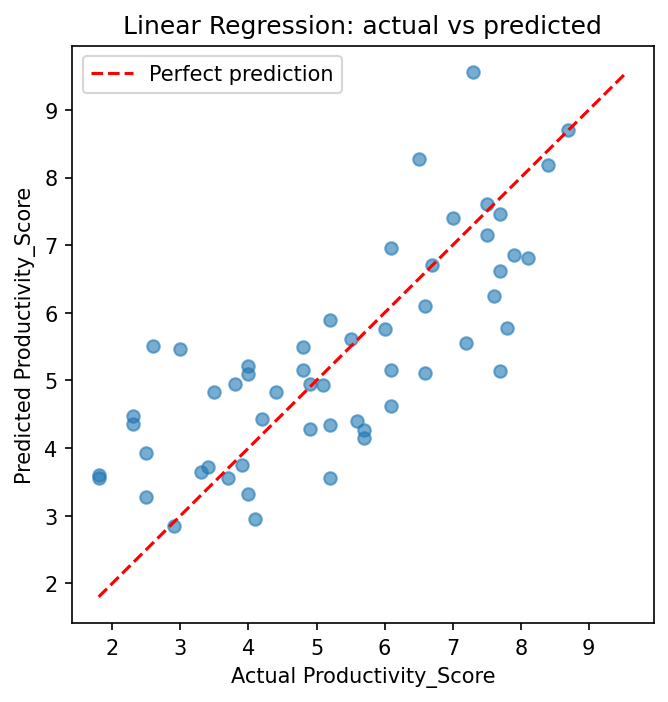
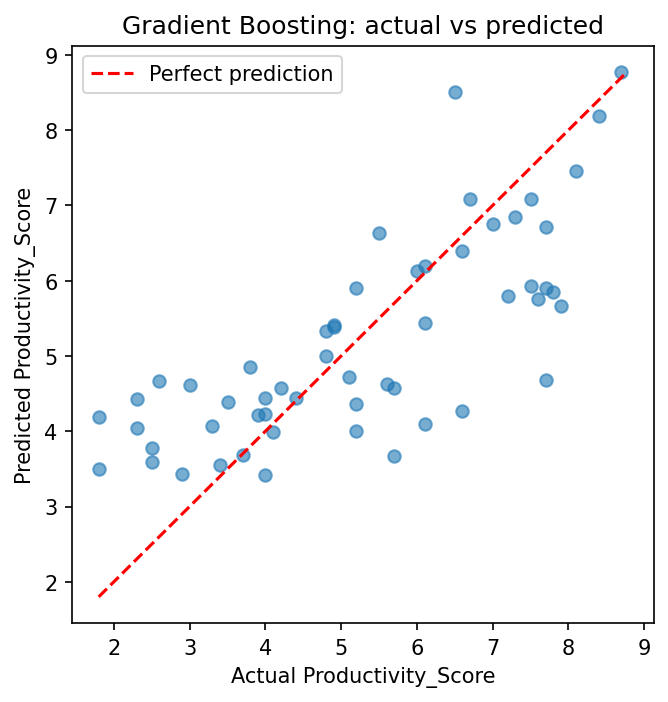
Add modeling notebook, saved models, and Streamlit app

diff --git a/main.py b/main.py
@@ -18,8 +18,8 @@ MODELS_DIR = Path(__file__).parent / "Models"
 @st.cache_resource
 def load_files():
     info = joblib.load(MODELS_DIR / "feature_info.joblib")      # columns and input options
-    scaler = joblib.load(MODELS_DIR / "scaler.joblib")           # scaler fitted in Notebook 02
-    models = {name: joblib.load(MODELS_DIR / file)               # the four trained models
+    scaler = joblib.load(MODELS_DIR / "scaler.joblib")          # scaler fitted in Notebook 02
+    models = {name: joblib.load(MODELS_DIR / file)              # the four trained models
               for name, file in info["file_names"].items()}
     results = pd.read_csv(MODELS_DIR / "model_comparison.csv", index_col=0)
     return info, scaler, models, results
@@ -33,14 +33,18 @@ info, scaler, models, results = load_files()
 st.title("AI Usage and Productivity Prediction")
 st.write("Enter the details of a user, choose a model, and predict the Productivity Score.")
 
-model_name = st.sidebar.selectbox("Choose a model", list(models.keys()))
-st.sidebar.write("Best model on the test set: " + info["best_model"])
+model_names = list(models.keys())
+default_index = model_names.index(info["best_model"])
+
+model_name = st.sidebar.selectbox("Choose a model", model_names, index=default_index)
+st.sidebar.write("Best model by cross-validation R²: " + info["best_model"])
 
 # ---------------------------------------------------------------
 # 3. Input fields for a new user
 # ---------------------------------------------------------------
 st.subheader("User details")
 col_left, col_right = st.columns(2)
+
 user_input = {}
 
 # text columns become dropdown lists
@@ -54,14 +58,13 @@ for i, (column, (low, high, median)) in enumerate(info["num_ranges"].items()):
         user_input[column] = st.number_input(column.replace("_", " "),
                                              min_value=low, max_value=high, value=median)
 
-
 # ---------------------------------------------------------------
 # 4. Prepare the input exactly like the training data
 # ---------------------------------------------------------------
 def prepare(user_input):
     row = pd.DataFrame([user_input])
-    row = pd.get_dummies(row)                                    # text -> 0/1 columns
-    row = row.reindex(columns=info["columns"], fill_value=0)     # same columns and order as training
+    row = pd.get_dummies(row)                                  # text -> 0/1 columns
+    row = row.reindex(columns=info["columns"], fill_value=0)   # same columns and order as training
     row = row.astype(float)
     row[info["num_cols"]] = scaler.transform(row[info["num_cols"]])  # same scaling as training
     return row
@@ -69,8 +72,7 @@ def prepare(user_input):
 
 def predict(model, row):
     value = model.predict(row)[0]
-    return min(max(value, 1.0), 10.0)                            # the score is between 1 and 10
-
+    return min(max(value, 1.0), 10.0)                          # the score is between 1 and 10
 
 # ---------------------------------------------------------------
 # 5. Prediction and comparison of all models
@@ -88,6 +90,7 @@ if st.button("Predict"):
     for column, (name, model) in zip(columns, models.items()):
         all_predictions[name] = predict(model, new_row)
         column.metric(name, round(all_predictions[name], 2))
+
     st.bar_chart(pd.Series(all_predictions))
 
 st.subheader("Model performance on the test set")
